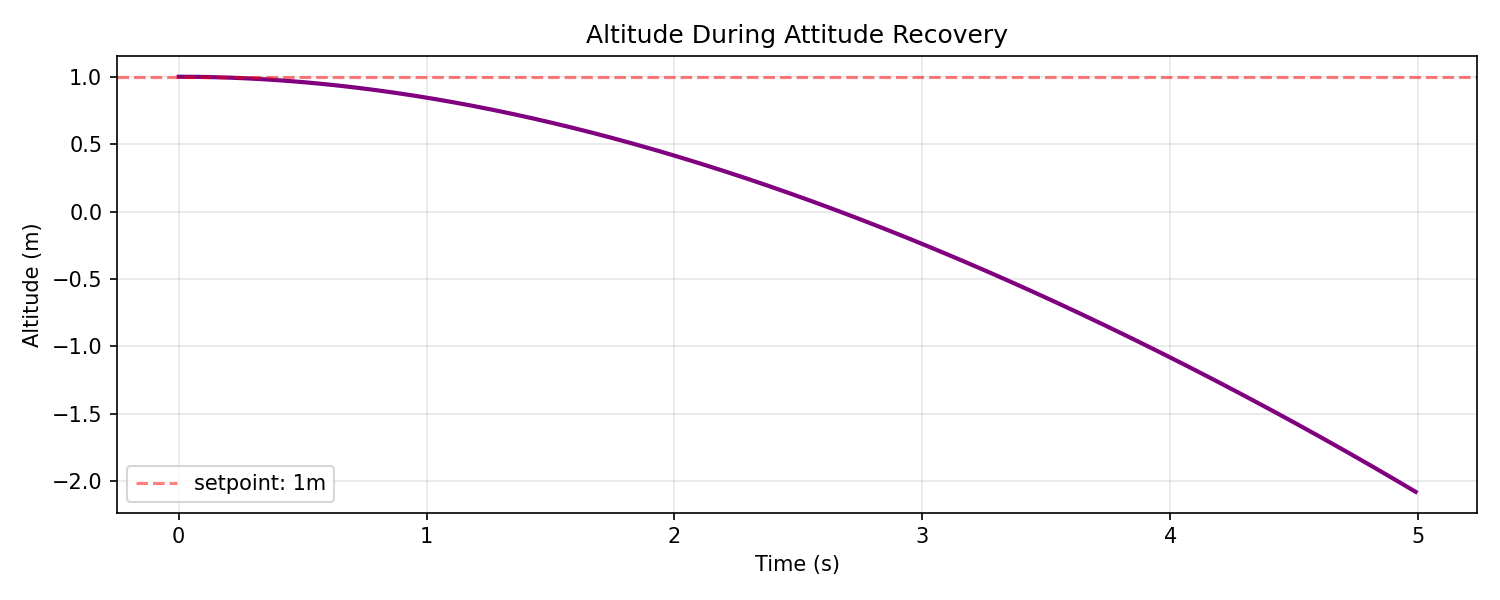
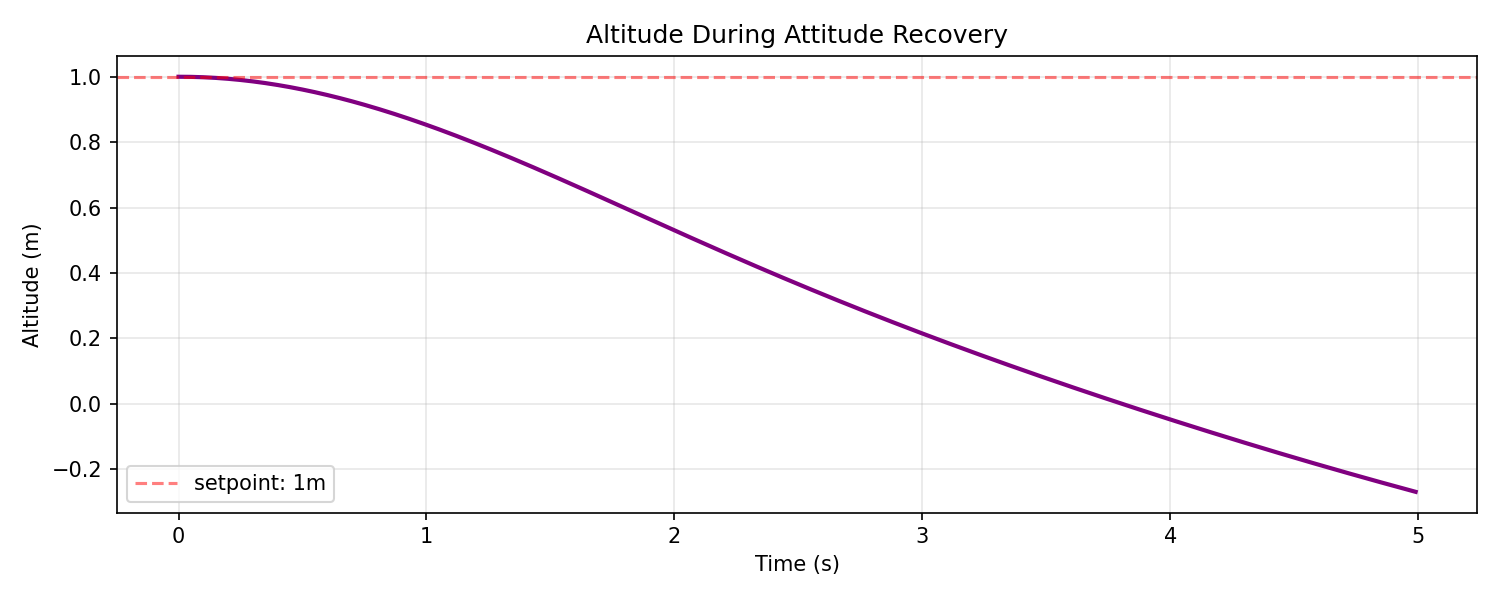
Day 9-10: attitude controller tuned, roll settling at ~3s

diff --git a/quadcopter_sim/closed_loop.py b/quadcopter_sim/closed_loop.py
@@ -18,8 +18,8 @@ def make_attitude_controllers():
     These gains ae starting points and may need tuning for good performance - expect to tune.
     """
     return {
-        'roll':  PIDController(kp=4.0, ki=0.0, kd=0.5, output_limit=0.5),
-        'pitch': PIDController(kp=4.0, ki=0.0, kd=0.5, output_limit=0.5),
+        'roll':  PIDController(kp=8.5, ki=0.0, kd=6.5, output_limit=0.5),
+        'pitch': PIDController(kp=2.0, ki=0.0, kd=2.0, output_limit=0.5),
         'yaw':   PIDController(kp=2.0, ki=0.0, kd=0.3, output_limit=0.3),    
     }
 
@@ -51,10 +51,10 @@ def attitude_control_step(state, setpoints, controllers, dt):
     
     # Convert PID outputs to motor speed adjustments
     # Each command adjusts motors differentially around hover speed
-    w1 = HOVER_W - roll_cmd - pitch_cmd + yaw_cmd # front right (CCW)
-    w2 = HOVER_W - roll_cmd + pitch_cmd + yaw_cmd # back left (CCW)
-    w3 = HOVER_W + roll_cmd - pitch_cmd - yaw_cmd # front left (CW)
-    w4 = HOVER_W + roll_cmd + pitch_cmd - yaw_cmd # back right (CW)
+    w1 = HOVER_W - roll_cmd + pitch_cmd + yaw_cmd # front right (CCW)
+    w2 = HOVER_W + roll_cmd - pitch_cmd + yaw_cmd # back left (CCW)
+    w3 = HOVER_W + roll_cmd + pitch_cmd - yaw_cmd # front left (CW)
+    w4 = HOVER_W - roll_cmd - pitch_cmd - yaw_cmd # back right (CW)
 
     # Clamp motor speeds to physical limits
     motor_speeds = np.clip([w1, w2, w3, w4], 0, HOVER_W * 2)
